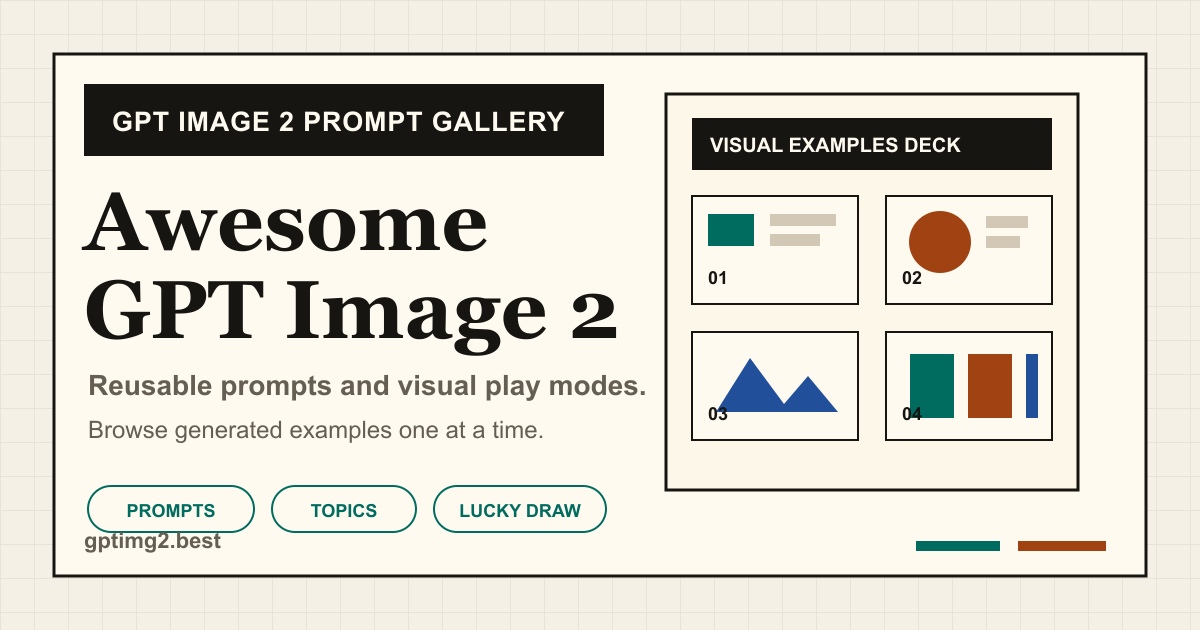
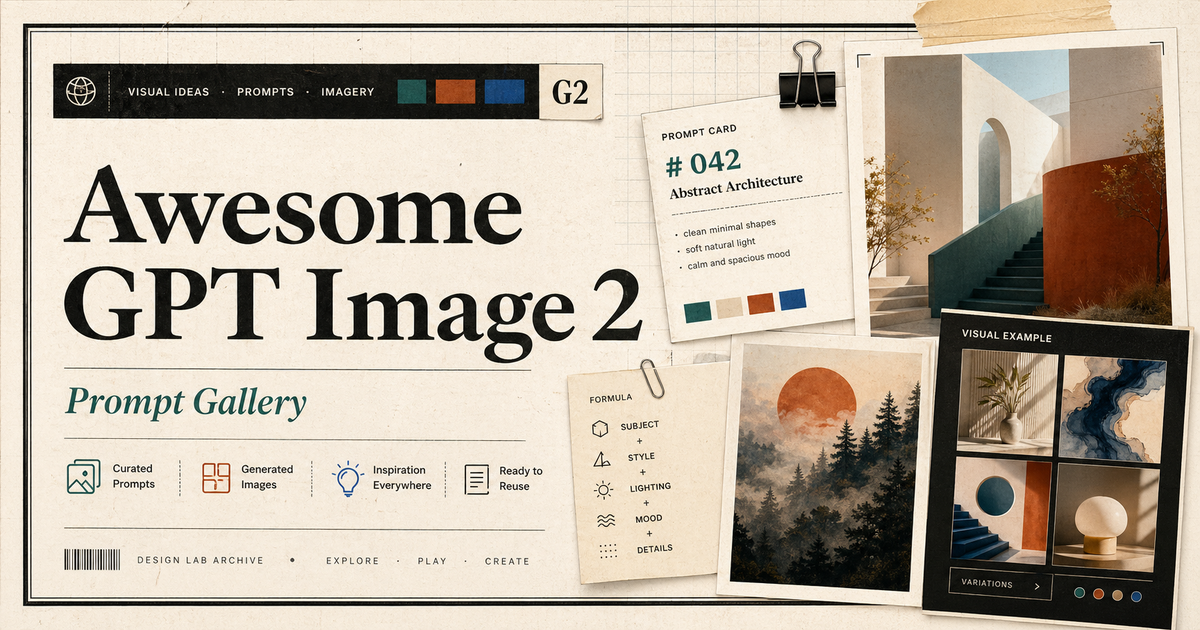
Give shared previews a generated brand image
The deterministic placeholder assets were too plain for social sharing, so the site now keeps generated brand-source artwork and derives the favicon, app icons, and Open Graph image through a repeatable Python/Pillow processing script.

Constraint: Use generated raster artwork as the source, then process final web sizes locally

Constraint: Keep existing Next static export and App Router metadata conventions

Rejected: Keep SVG-only generated-by-code artwork | user asked for generated-image quality

Rejected: Use prompt detail images for collection pages | those change with gallery ordering and make sharing inconsistent

Confidence: high

Scope-risk: moderate

Directive: Regenerate brand outputs with npm run build:brand after replacing assets/brand/*-source.png

Tested: npm run build:brand

Tested: npm run build

Tested: Verified exported out/favicon.ico, out/icon.png, out/apple-icon.png, and out/opengraph-image.png dimensions

diff --git a/app/tags/page.jsx b/app/tags/page.jsx
@@ -1,18 +1,32 @@
 import TagsIndexPageContent from "../../components/pages/TagsIndexPage";
 import { tagEntries } from "../../lib/gallery";
 import { getCopy } from "../../lib/i18n";
+import { SITE_OG_IMAGE, SITE_OG_IMAGE_METADATA } from "../../lib/site-assets";
 
 const t = getCopy("en");
+const description = `Browse ${tagEntries.length} GPT Image 2 topic collections for UI mockups, product visuals, diagrams, games, storytelling, and evaluation workflows.`;
 
 export const metadata = {
   title: t.tagsTitle,
-  description: `Browse ${tagEntries.length} GPT Image 2 topic collections for UI mockups, product visuals, diagrams, games, storytelling, and evaluation workflows.`,
+  description,
   alternates: {
     canonical: "/tags/",
     languages: {
       en: "/tags/",
       zh: "/zh/tags/",
     },
+  },
+  openGraph: {
+    title: t.tagsTitle,
+    description,
+    url: "/tags/",
+    images: [SITE_OG_IMAGE_METADATA],
+  },
+  twitter: {
+    card: "summary_large_image",
+    title: t.tagsTitle,
+    description,
+    images: [SITE_OG_IMAGE],
   },
 };
 

diff --git a/app/prompts/page.jsx b/app/prompts/page.jsx
@@ -1,18 +1,32 @@
 import PromptsIndexPageContent from "../../components/pages/PromptsIndexPage";
 import { galleryEntries } from "../../lib/gallery";
 import { getCopy } from "../../lib/i18n";
+import { SITE_OG_IMAGE, SITE_OG_IMAGE_METADATA } from "../../lib/site-assets";
 
 const t = getCopy("en");
+const description = `Browse ${galleryEntries.length} GPT Image 2 examples with generated images, topics, prompt text, and related ideas.`;
 
 export const metadata = {
   title: t.promptsTitle,
-  description: `Browse ${galleryEntries.length} GPT Image 2 examples with generated images, topics, prompt text, and related ideas.`,
+  description,
   alternates: {
     canonical: "/prompts/",
     languages: {
       en: "/prompts/",
       zh: "/zh/prompts/",
     },
+  },
+  openGraph: {
+    title: t.promptsTitle,
+    description,
+    url: "/prompts/",
+    images: [SITE_OG_IMAGE_METADATA],
+  },
+  twitter: {
+    card: "summary_large_image",
+    title: t.promptsTitle,
+    description,
+    images: [SITE_OG_IMAGE],
   },
 };
 

diff --git a/app/layout.jsx b/app/layout.jsx
@@ -1,6 +1,7 @@
 import "./globals.css";
 import { SITE_URL } from "../lib/gallery";
 import { getCopy } from "../lib/i18n";
+import { SITE_OG_IMAGE, SITE_OG_IMAGE_METADATA } from "../lib/site-assets";
 
 const t = getCopy("en");
 
@@ -12,17 +13,26 @@ export const metadata = {
   },
   description: t.homeDescription,
   authors: [{ name: "pyth0nb3st" }],
+  icons: {
+    icon: [
+      { url: "/favicon.ico", sizes: "any" },
+      { url: "/icon.png", type: "image/png", sizes: "512x512" },
+    ],
+    apple: [{ url: "/apple-icon.png", type: "image/png", sizes: "180x180" }],
+  },
   openGraph: {
     type: "website",
     siteName: "Awesome GPT Image 2",
     title: t.homeTitle,
     description: t.homeDescription,
     url: SITE_URL,
+    images: [SITE_OG_IMAGE_METADATA],
   },
   twitter: {
     card: "summary_large_image",
     title: t.homeTitle,
     description: t.homeDescription,
+    images: [SITE_OG_IMAGE],
   },
   robots: {
     index: true,

diff --git a/app/zh/tags/[tag]/page.jsx b/app/zh/tags/[tag]/page.jsx
@@ -2,6 +2,7 @@ import { notFound } from "next/navigation";
 import TagDetailPageContent from "../../../../components/pages/TagDetailPage";
 import { getEntriesByTag, tagEntries, tagUrl } from "../../../../lib/gallery";
 import { getCopy, tagLabel } from "../../../../lib/i18n";
+import { SITE_OG_IMAGE, SITE_OG_IMAGE_METADATA } from "../../../../lib/site-assets";
 
 export function generateStaticParams() {
   return tagEntries.map(([tag]) => ({ tag }));
@@ -30,6 +31,13 @@ export async function generateMetadata({ params }) {
       title: `${label} GPT Image 2 示例`,
       description,
       url: `/zh${tagUrl(tag)}`,
+      images: [SITE_OG_IMAGE_METADATA],
+    },
+    twitter: {
+      card: "summary_large_image",
+      title: `${label} GPT Image 2 示例`,
+      description,
+      images: [SITE_OG_IMAGE],
     },
   };
 }

diff --git a/app/tags/[tag]/page.jsx b/app/tags/[tag]/page.jsx
@@ -2,6 +2,7 @@ import { notFound } from "next/navigation";
 import TagDetailPageContent from "../../../components/pages/TagDetailPage";
 import { getEntriesByTag, tagEntries, tagUrl } from "../../../lib/gallery";
 import { tagLabel } from "../../../lib/i18n";
+import { SITE_OG_IMAGE, SITE_OG_IMAGE_METADATA } from "../../../lib/site-assets";
 
 export function generateStaticParams() {
   return tagEntries.map(([tag]) => ({ tag }));
@@ -29,6 +30,13 @@ export async function generateMetadata({ params }) {
       title: `${label} GPT Image 2 Examples`,
       description,
       url: tagUrl(tag),
+      images: [SITE_OG_IMAGE_METADATA],
+    },
+    twitter: {
+      card: "summary_large_image",
+      title: `${label} GPT Image 2 Examples`,
+      description,
+      images: [SITE_OG_IMAGE],
     },
   };
 }

diff --git a/app/zh/lucky/page.jsx b/app/zh/lucky/page.jsx
@@ -1,6 +1,6 @@
 import LuckyPageContent from "../../../components/pages/LuckyPage";
-import { galleryEntries, toSitePath } from "../../../lib/gallery";
 import { getCopy } from "../../../lib/i18n";
+import { SITE_OG_IMAGE, SITE_OG_IMAGE_METADATA } from "../../../lib/site-assets";
 
 const t = getCopy("zh");
 
@@ -18,13 +18,13 @@ export const metadata = {
     title: t.luckyTitle,
     description: t.luckyDescription,
     url: "/zh/lucky/",
-    images: [toSitePath(galleryEntries[0].image.path)],
+    images: [SITE_OG_IMAGE_METADATA],
   },
   twitter: {
     card: "summary_large_image",
     title: t.luckyTitle,
     description: t.luckyDescription,
-    images: [toSitePath(galleryEntries[0].image.path)],
+    images: [SITE_OG_IMAGE],
   },
 };
 

diff --git a/app/lucky/page.jsx b/app/lucky/page.jsx
@@ -1,6 +1,6 @@
 import LuckyPageContent from "../../components/pages/LuckyPage";
-import { galleryEntries, toSitePath } from "../../lib/gallery";
 import { getCopy } from "../../lib/i18n";
+import { SITE_OG_IMAGE, SITE_OG_IMAGE_METADATA } from "../../lib/site-assets";
 
 const t = getCopy("en");
 
@@ -18,13 +18,13 @@ export const metadata = {
     title: t.luckyTitle,
     description: t.luckyDescription,
     url: "/lucky/",
-    images: [toSitePath(galleryEntries[0].image.path)],
+    images: [SITE_OG_IMAGE_METADATA],
   },
   twitter: {
     card: "summary_large_image",
     title: t.luckyTitle,
     description: t.luckyDescription,
-    images: [toSitePath(galleryEntries[0].image.path)],
+    images: [SITE_OG_IMAGE],
   },
 };
 

diff --git a/app/zh/page.jsx b/app/zh/page.jsx
@@ -1,6 +1,6 @@
 import HomePageContent from "../../components/pages/HomePage";
-import { galleryEntries, toSitePath } from "../../lib/gallery";
 import { getCopy } from "../../lib/i18n";
+import { SITE_OG_IMAGE, SITE_OG_IMAGE_METADATA } from "../../lib/site-assets";
 
 const t = getCopy("zh");
 
@@ -18,13 +18,13 @@ export const metadata = {
     title: t.homeTitle,
     description: t.homeDescription,
     url: "/zh/",
-    images: [toSitePath(galleryEntries[0].image.path)],
+    images: [SITE_OG_IMAGE_METADATA],
   },
   twitter: {
     card: "summary_large_image",
     title: t.homeTitle,
     description: t.homeDescription,
-    images: [toSitePath(galleryEntries[0].image.path)],
+    images: [SITE_OG_IMAGE],
   },
 };
 

diff --git a/app/page.jsx b/app/page.jsx
@@ -1,6 +1,6 @@
 import HomePageContent from "../components/pages/HomePage";
-import { galleryEntries, toSitePath } from "../lib/gallery";
 import { getCopy } from "../lib/i18n";
+import { SITE_OG_IMAGE, SITE_OG_IMAGE_METADATA } from "../lib/site-assets";
 
 const t = getCopy("en");
 
@@ -18,13 +18,13 @@ export const metadata = {
     title: t.homeTitle,
     description: t.homeDescription,
     url: "/",
-    images: [toSitePath(galleryEntries[0].image.path)],
+    images: [SITE_OG_IMAGE_METADATA],
   },
   twitter: {
     card: "summary_large_image",
     title: t.homeTitle,
     description: t.homeDescription,
-    images: [toSitePath(galleryEntries[0].image.path)],
+    images: [SITE_OG_IMAGE],
   },
 };
 

diff --git a/app/zh/prompts/page.jsx b/app/zh/prompts/page.jsx
@@ -1,5 +1,6 @@
 import PromptsIndexPageContent from "../../../components/pages/PromptsIndexPage";
 import { getCopy } from "../../../lib/i18n";
+import { SITE_OG_IMAGE, SITE_OG_IMAGE_METADATA } from "../../../lib/site-assets";
 
 const t = getCopy("zh");
 
@@ -12,6 +13,18 @@ export const metadata = {
       en: "/prompts/",
       zh: "/zh/prompts/",
     },
+  },
+  openGraph: {
+    title: t.promptsTitle,
+    description: t.promptsDescription,
+    url: "/zh/prompts/",
+    images: [SITE_OG_IMAGE_METADATA],
+  },
+  twitter: {
+    card: "summary_large_image",
+    title: t.promptsTitle,
+    description: t.promptsDescription,
+    images: [SITE_OG_IMAGE],
   },
 };
 

diff --git a/app/zh/tags/page.jsx b/app/zh/tags/page.jsx
@@ -1,5 +1,6 @@
 import TagsIndexPageContent from "../../../components/pages/TagsIndexPage";
 import { getCopy } from "../../../lib/i18n";
+import { SITE_OG_IMAGE, SITE_OG_IMAGE_METADATA } from "../../../lib/site-assets";
 
 const t = getCopy("zh");
 
@@ -12,6 +13,18 @@ export const metadata = {
       en: "/tags/",
       zh: "/zh/tags/",
     },
+  },
+  openGraph: {
+    title: t.tagsTitle,
+    description: t.tagsDescription,
+    url: "/zh/tags/",
+    images: [SITE_OG_IMAGE_METADATA],
+  },
+  twitter: {
+    card: "summary_large_image",
+    title: t.tagsTitle,
+    description: t.tagsDescription,
+    images: [SITE_OG_IMAGE],
   },
 };
 

diff --git a/scripts/build-brand-assets.py b/scripts/build-brand-assets.py
@@ -16,6 +16,10 @@ def load_rgb(path: Path) -> Image.Image:
     return Image.open(path).convert("RGB")
 
 
+def load_rgba(path: Path) -> Image.Image:
+    return Image.open(path).convert("RGBA")
+
+
 def save_png(image: Image.Image, path: Path) -> None:
     path.parent.mkdir(parents=True, exist_ok=True)
     image.save(path, format="PNG", optimize=True)
@@ -32,7 +36,7 @@ def main() -> None:
     apple_icon = ImageOps.fit(icon_source, (180, 180), method=Image.Resampling.LANCZOS, centering=(0.5, 0.5))
     save_png(apple_icon, APP_DIR / "apple-icon.png")
 
-    favicon_source = ImageOps.fit(icon_source, (256, 256), method=Image.Resampling.LANCZOS, centering=(0.5, 0.5))
+    favicon_source = ImageOps.fit(load_rgba(ICON_SOURCE), (256, 256), method=Image.Resampling.LANCZOS, centering=(0.5, 0.5))
     favicon_source.save(APP_DIR / "favicon.ico", sizes=[(16, 16), (32, 32), (48, 48), (64, 64)])
 
 
